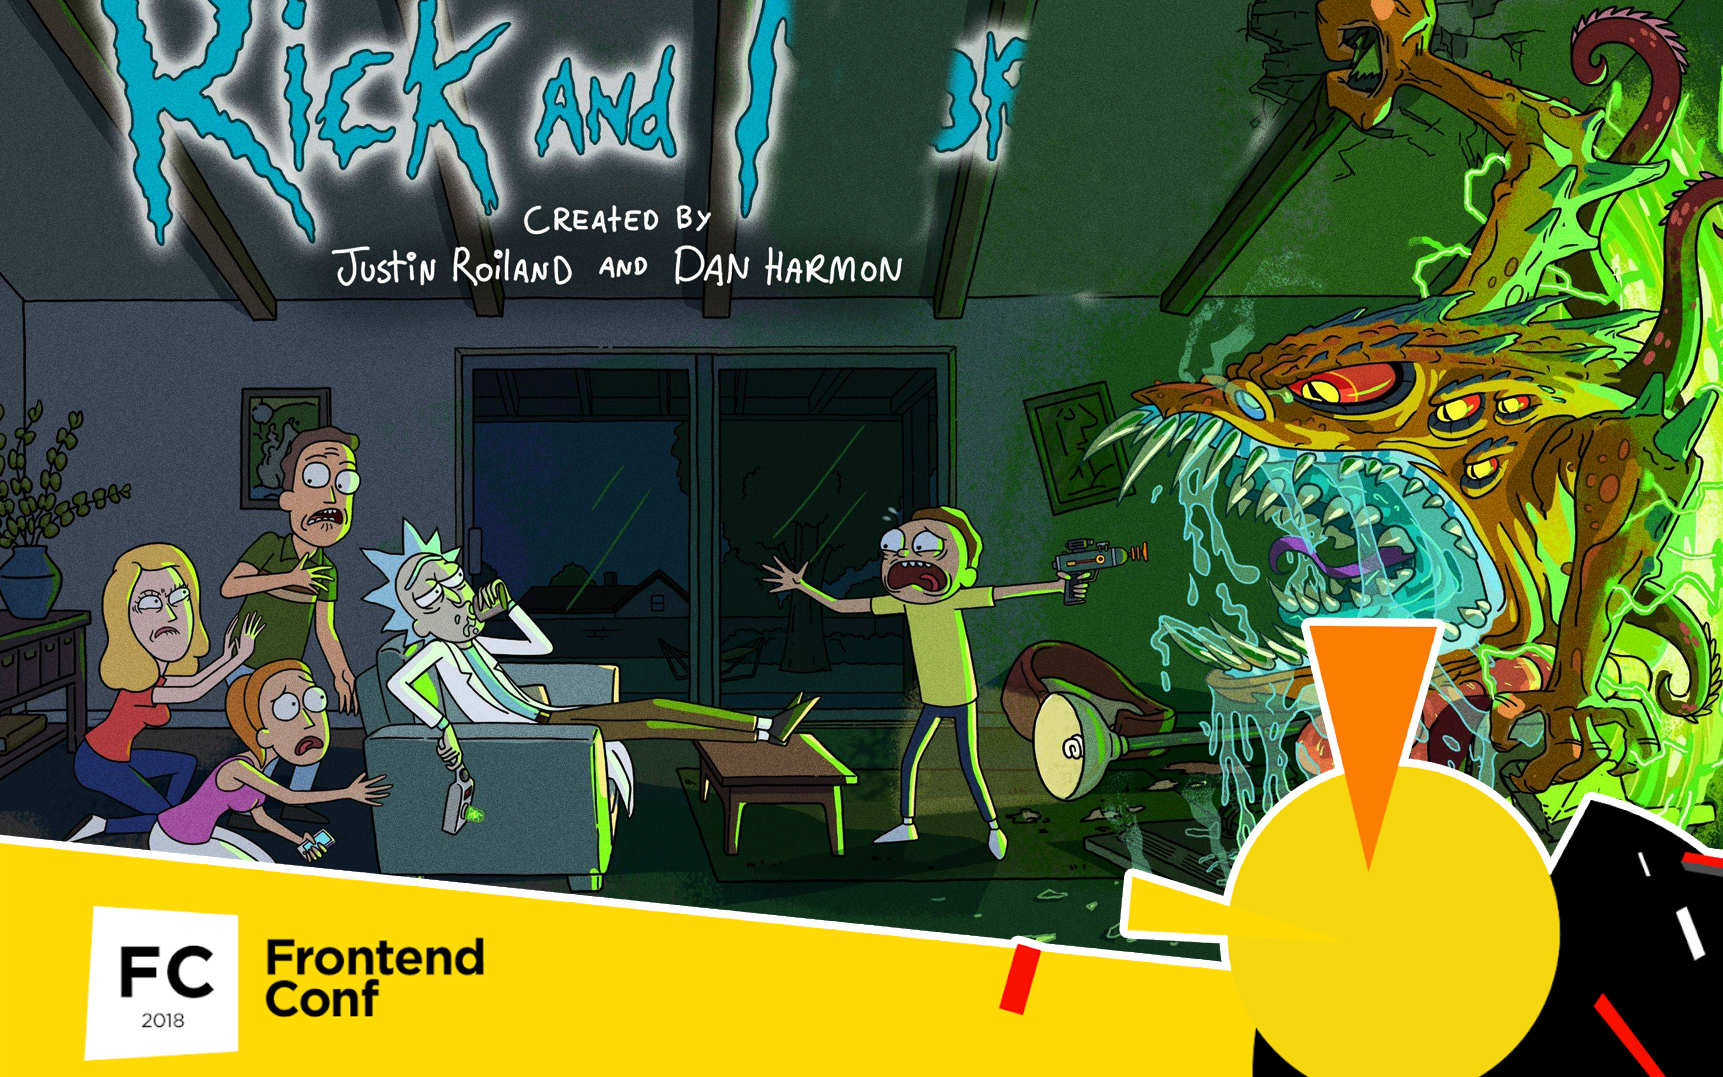
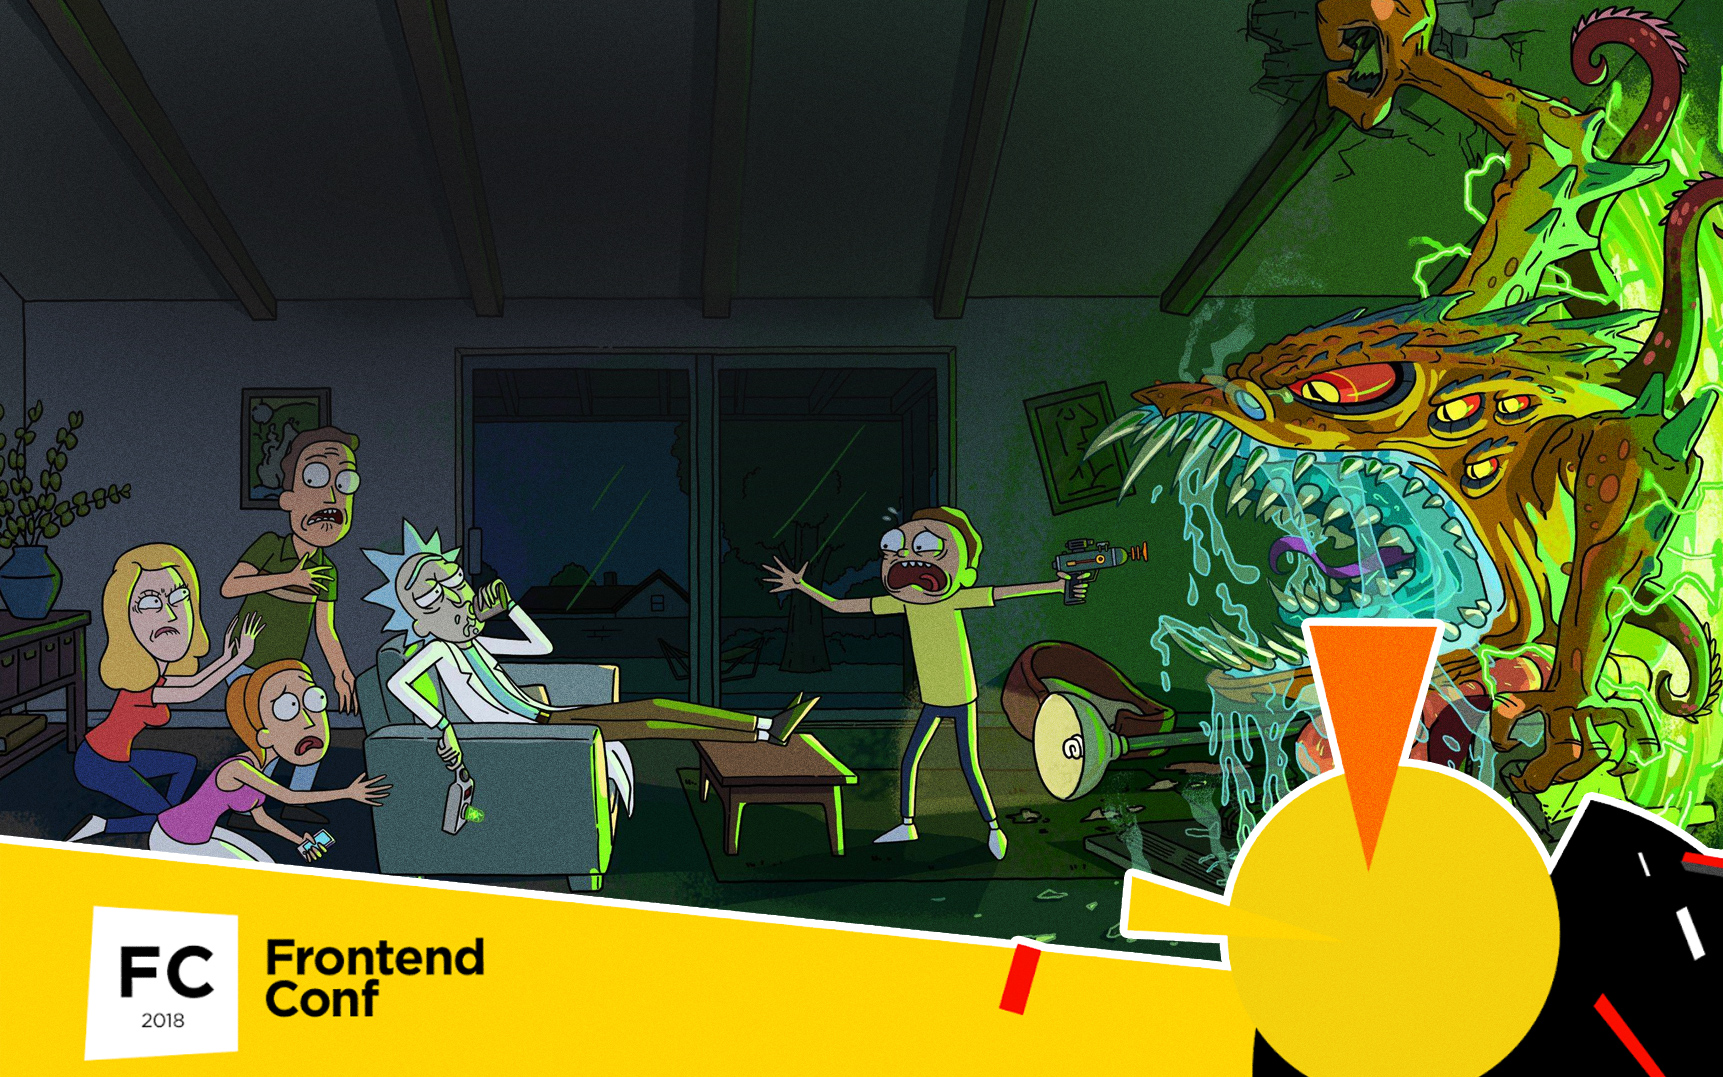
Fix cover slide

diff --git a/slides.css b/slides.css
@@ -11,7 +11,7 @@ iframe {
   opacity: 0;
 }
 #cover h2 {
-  margin: 60px 0 0;
+  margin: -20px 0 0;
   color: #fff;
   text-align: left;
   font-size: 48px;
